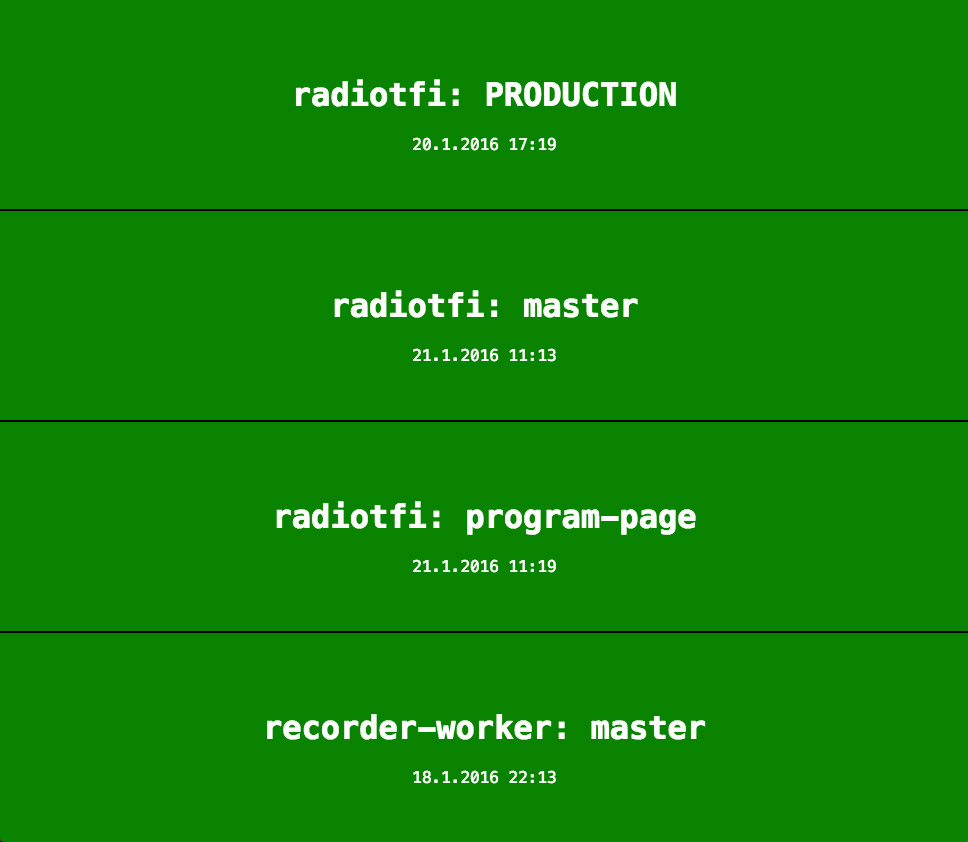
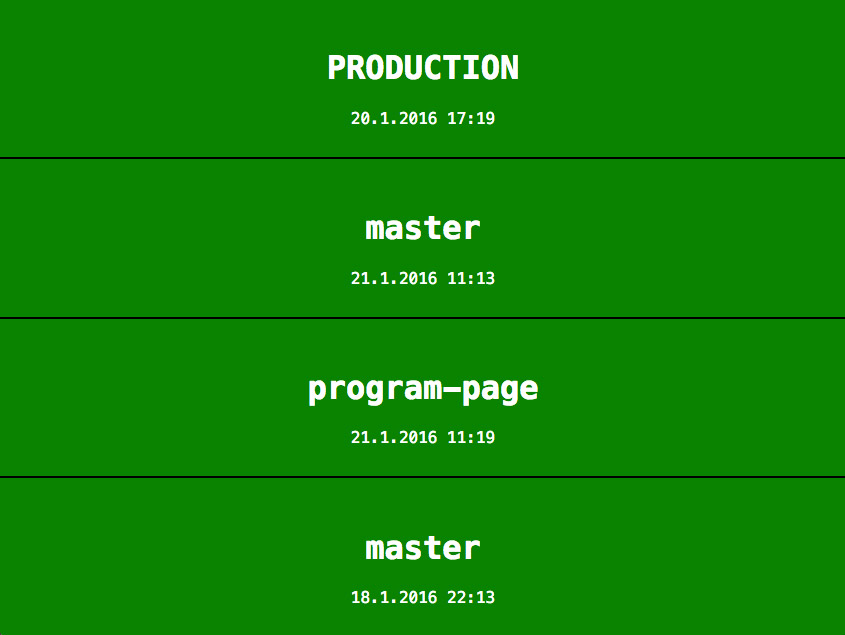
Update readme and screenshot

diff --git a/README.md b/README.md
@@ -4,17 +4,16 @@ Cirle CI lacks a nice radiator dashboard. I made this for the needs of our team.
 
 *All pull requests are welcome.*
 
-![Circle CI Radiator view](/readme_radiator.jpg?raw=true "Circle CI Radiator view")
-
 ## Setup
 
 1. Get your API token: https://circleci.com/account/api
-2. Host index.html` in some way: `python -m SimpleHTTPServer 8080`
+2. Host `index.html` in some way: `python -m SimpleHTTPServer 8080`
 
 You can either enter the token to the page or use a query parameter:
 
     https://yourdomain.com/?token=835li2ixxxxxxxxxxxxxxxxxxxxxxxxxx1sd41
 
+![Circle CI Radiator view](/readme_radiator.jpg?raw=true "Circle CI Radiator view")
 
 ## Licence
 
